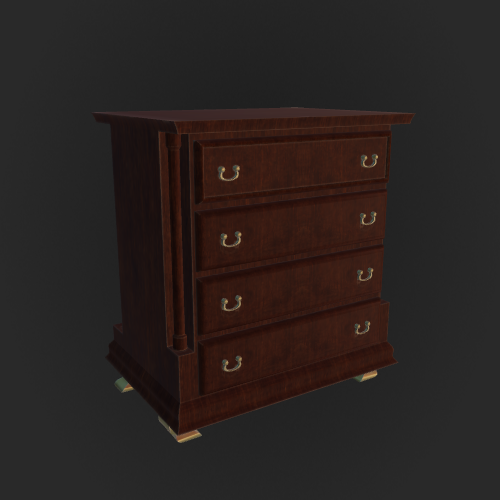
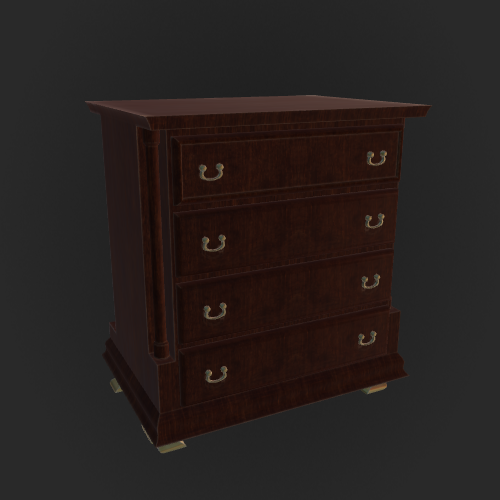
Refactor 3D camera controls and update product model
Replaced `CameraDefaultZPos` and `ViewDefaultRotation` with `cameraDefaultPos` and `controlsDefaultTarget` for improved 3D camera positioning and targeting. Updated `ProductData` model and database schema to reflect these changes, including a new migration.

Refactored `HomeController.cs` to use `productId` instead of `productName` for product identification and added `ThenInclude` for `Materials`. Enhanced `UploadModelPanel.js` with `OrbitControls` for better 3D navigation and introduced asynchronous model loading with error handling.

Updated `site.js` to support passing product IDs to `UploadMode`. Improved maintainability, readability, and user experience across the codebase.

diff --git a/3D-Marketplace/wwwroot/js/UploadModelPanel.js b/3D-Marketplace/wwwroot/js/UploadModelPanel.js
@@ -1,22 +1,21 @@
 import * as THREE from 'three';
 import { GLTFLoader } from 'three/addons/loaders/GLTFLoader.js';
 import { FBXLoader } from 'three/addons/loaders/FBXLoader.js';
-import { MaterialInfo } from '/MyModels.js';
+import { MaterialInfo } from './MyModels.js';
+import { OrbitControls } from 'three/addons/controls/OrbitControls.js';
 
 const scene = new THREE.Scene(); // Set up the scene
 
 const canvas_container = document.getElementById('canvas-container');
 
-let cameraDefaultZPos = 10;
-const viewDefaultRotation = new THREE.Vector2(0, 0); // x for the camera and Y for the model
+const cameraDefaultPos = new THREE.Vector3(0, 0, 10);     // <-- this new
+const controlsDefaultTarget = new THREE.Vector3(0, 0, 0); // <-- this new
 
 const camera = new THREE.PerspectiveCamera(45, canvas_container.clientWidth / canvas_container.clientHeight, 0.1, 100);
-camera.position.set(0, 0, cameraDefaultZPos);
+camera.position.copy(cameraDefaultPos);
 camera.lookAt(0, 0, 0);
 
-const cameraParent = new THREE.Object3D();
-cameraParent.add(camera);
-scene.add(cameraParent);
+scene.add(camera);
 
 const render = new THREE.WebGLRenderer({ antialias: true, alpha: true, preserveDrawingBuffer: true });
 
@@ -25,7 +24,8 @@ render.outputColorSpace = THREE.SRGBColorSpace;
 render.setSize(canvas_container.clientWidth, canvas_container.clientHeight);
 canvas_container.appendChild(render.domElement);
 
-
+const controls = new OrbitControls(camera, render.domElement);
+controls.enablePan = false;
 
 const fpxLoader = new FBXLoader();
 const gltfLoader = new GLTFLoader();
@@ -524,8 +524,12 @@ document.getElementById('canvas-Save').addEventListener('click', async () => {
     // Append Scalars & Form Inputs
     productFormData.append("productId", productId);
     productFormData.append("isPublished", isPublished);
-    productFormData.append("ViewDefaultRotation", JSON.stringify({ x: viewDefaultRotation.x, y: viewDefaultRotation.y }));
-    productFormData.append("CameraDefaultZPos", cameraDefaultZPos);
+
+    productFormData.append("controlsDefaultTarget",
+        JSON.stringify({ x: controlsDefaultTarget.x, y: controlsDefaultTarget.y, z: controlsDefaultTarget.z }));
+    productFormData.append("cameraDefaultPos",
+        JSON.stringify({ x: cameraDefaultPos.x, y: cameraDefaultPos.y, z: cameraDefaultPos.z }));
+
     productFormData.append("HdriBrightness", sceneBrightness);
 
     productFormData.append("ProductName", productNameInput.value);
@@ -611,9 +615,10 @@ function capturedThumbnail() {
         thumbnailImage.classList.add('vertical-Open');
         thumbnailImage.style.display = "flex";
 
-        cameraDefaultZPos = camera.position.z;
-        viewDefaultRotation.x = cameraParent.rotation.x;
-        viewDefaultRotation.y = model.rotation.z;
+
+        // --- FIX HERE: Save full Position & Target ---
+        cameraDefaultPos.copy(camera.position);
+        controlsDefaultTarget.copy(controls.target);
 
         thumbnaiTimerId = setTimeout(() => {
             thumbnailImage.classList.remove('vertical-Open');
@@ -648,6 +653,7 @@ function animate(timestamp) {
 
     render.render(scene, camera);
 
+    controls.update();
 }
 
 
@@ -660,29 +666,6 @@ window.addEventListener('resize', () => {
     render.setPixelRatio(Math.min(window.devicePixelRatio, 2));
 })
 
-canvas_container.addEventListener('wheel', (e) => {
-    camera.position.z += e.deltaY * Timer.getDelta();
-    if (camera.position.z < 2) camera.position.z = 1;
-});
-
-canvas_container.addEventListener('mousemove', (e) => {
-    if (e.buttons === 2) { // if right click
-        if (!model) return;
-
-        canvas_container.style.cursor = "url('/resources/cursorRotate.svg'), auto"
-        model.rotation.z += e.movementX * Timer.getDelta();
-        cameraParent.rotation.x += e.movementY * Timer.getDelta() * -1;
-    }
-});
-
-window.addEventListener('mouseup', () => {
-    canvas_container.style.cursor = "default";
-});
-
-render.domElement.addEventListener('contextmenu', (e) => {
-    e.preventDefault();
-});
-
 document.getElementById("canvas-resetViewButton").addEventListener('click', () => {
     resetView();
 });
@@ -690,13 +673,14 @@ document.getElementById("canvas-resetViewButton").addEventListener('click', () =
 function resetView() {
     if (!model) return;
 
-    cameraParent.rotation.x = viewDefaultRotation.x;
-    camera.position.z = cameraDefaultZPos;
-    model.rotation.z = viewDefaultRotation.y;
+    camera.position.copy(cameraDefaultPos);
+    controls.target.copy(controlsDefaultTarget);
+
+    controls.update();
 }
 
 // this should have all the function and ui data manipulation that need to run when the pag load
-function start() {
+async function start() {
     if (productId <= 0 || !product) {
         setDefault_HDMI();
         setDefault_Background();
@@ -736,31 +720,61 @@ function start() {
         if (product.HDRI) applyHDMITexture(product.HDRI);
         if (product.Background) applyBackground(product.Background);
 
-        const rotationObj = JSON.parse(product.ViewDefaultRotation);
-        viewDefaultRotation.x = rotationObj.x;
-        viewDefaultRotation.y = rotationObj.y;
+        let data_cameraDefaultPos = null;
+        let data_controlsDefaultTarget = null;
+        for (var i = 0; i < 2; i++) { // i need to duble parse it because it duble stringified in the database
+            try { data_cameraDefaultPos = JSON.parse(product.cameraDefaultPos); } catch {}
+            try { data_controlsDefaultTarget = JSON.parse(product.controlsDefaultTarget); } catch {}
+        }
 
-        cameraDefaultZPos = product.CameraDefaultZPos;
+        try {
+            cameraDefaultPos.set(data_cameraDefaultPos.x, data_cameraDefaultPos.y, data_cameraDefaultPos.z);
+            controlsDefaultTarget.set(data_controlsDefaultTarget.x, data_controlsDefaultTarget.y, data_controlsDefaultTarget.z);
+        } catch {
+            cameraDefaultPos.set(0, 0, 10);
+            controlsDefaultTarget.set(0, 0, 0);
+        }
 
-        // apply project setting
         productName.value = product.Name;
         productPriceInput.value = product.Price;
         StockInput.value = product.Stock;
         DescriptionInput.value = product.Description;
 
+
         _3dModel = product._3dModel;
-        const modelPath = product._3dModel;
-        if (modelPath && modelPath.endsWith('.fbx')) {
-            const loader = new FBXLoader();
-            loader.load(modelPath, (fbx) => {
-                setupLoadedModel(fbx);
-            });
-        } else if (modelPath) {
-            // GLTF/GLB loader logic goes here
+        const modelPath = _3dModel;
+        if (modelPath) {
+            try {
+                const loadobject = await loadModelAsync(modelPath);
+                if (loadobject) {
+                    setupLoadedModel(loadobject);
+                    resetView();
+                }
+            } catch (error) {
+                showWarningMessage("oppps something went wrong while loading the model, please try again later");
+            }
         }
     }
 
     updateCanvasUI();
     animate();
+    function loadModelAsync(modelPath) {
+        return new Promise((resolve, reject) => {
+            if (!modelPath) return resolve(null);
+
+            if (modelPath.endsWith('.fbx')) {
+                const loader = new FBXLoader();
+                loader.load(modelPath,(fbx) => resolve(fbx),undefined,(error) => reject(error));
+            } else {
+                const loader = new GLTFLoader();
+                loader.load(
+                    modelPath,
+                    (gltf) => resolve(gltf.scene),
+                    undefined,
+                    (error) => reject(error)
+                );
+            }
+        });
+    }
 }
 start();

diff --git a/3D-Marketplace/wwwroot/js/site.js b/3D-Marketplace/wwwroot/js/site.js
@@ -64,7 +64,7 @@ const tabContainer = document.getElementById('tabElementContainer');
 /**
  * @param {'EditProfile' | 'UploadMode' | 'StoreItems'} tabName
  */
-async function switchToTab(tabName) {
+async function switchToTab(tabName,extraInfo) {
 
     // check if the user is sign in
     const checkResponse = await fetch('/Home/IsUserSignIn', { method: 'GET' });
@@ -83,7 +83,8 @@ async function switchToTab(tabName) {
             break;
 
         case 'UploadMode':
-            response = await fetch('/Home/LoadTab_UploadMode', { method: 'POST' });
+            if (!extraInfo) extraInfo = -1;
+            response = await fetch(`/Home/LoadTab_UploadMode?productId=${extraInfo} `, { method: 'POST' });
             break;
         case 'StoreItems':
             response = await fetch('/Home/LoadTab_StoreItems', { method: 'POST' });

diff --git a/3D-Marketplace/wwwroot/js/StoreItems.js b/3D-Marketplace/wwwroot/js/StoreItems.js
@@ -115,8 +115,10 @@ import { MaterialInfo, SceneInfo } from './MyModels.js';
 
             if (userName === product.seller.userName) {
                 editBtn.style.display = 'block';
+                editBtn.onclick = () => { switchToTab('UploadMode', product.id) };
             } else {
                 editBtn.style.display = 'none';
+                editBtn.onclick = () => { };
             }
 
             // 3. Load 3D scene

diff --git a/3D-Marketplace/Controllers/HomeController.cs b/3D-Marketplace/Controllers/HomeController.cs
@@ -20,7 +20,6 @@ namespace _3D_Marketplace.Controllers {
             if (user != null) {
                 ViewData["Name"] = user.Name;
                 ViewData["ProfilePic"] = user.ProfilePicture;
-                ViewData["UserName"] = user.UserName;
             }
 
             return View(_context.products.ToArray());
@@ -37,18 +36,21 @@ namespace _3D_Marketplace.Controllers {
         }
         public IActionResult LoadTab_StoreItems() {
             string? username = Request.Cookies["RememberMeUser"];
+            ViewData["UserName"] = username;
             return PartialView("StoreItems");
         }
         public IActionResult LoadTab_EditProfile() {
             string? username = Request.Cookies["RememberMeUser"];
             return PartialView("EditProfile", model: _context.Users.FirstOrDefault(u => u.UserName == username));
         }
-        public IActionResult LoadTab_UploadMode(string productName = "") {
+
+        [HttpPost]
+        public IActionResult LoadTab_UploadMode(int productId = -1) {
             ProductData? product = null;
-            if (!string.IsNullOrEmpty(productName)) {
+            if (productId >= 0) {
                 var user = GetUserViaCookies();
                 if (user != null)
-                    product = user.products.FirstOrDefault(p => p.Name == productName);
+                    product = user.products.FirstOrDefault(p => p.Id == productId);
             }
 
             return PartialView("UploadModelPanel",model: product);
@@ -64,8 +66,8 @@ namespace _3D_Marketplace.Controllers {
         public class ProductUploadDto {
             public int ProductId { get; set; }
             public bool IsPublished { get; set; }
-            public string ViewDefaultRotation { get; set; } = "{\"x\":0,\"y\":0}";
-            public float CameraDefaultZPos { get; set; }
+            public string controlsDefaultTarget { get; set; } = "{\"x\":0,\"y\":0,\"z\":0}";
+            public string cameraDefaultPos { get; set; } = "{\"x\":0,\"y\":0,\"z\":10}";
 
             // Files vs Paths
             public IFormFile? ModelFile { get; set; }
@@ -112,8 +114,8 @@ namespace _3D_Marketplace.Controllers {
                 Product.Stock = dto.Stock;
                 Product.Description = dto.Description;
                 Product.isPublished = dto.IsPublished;
-                Product.CameraDefaultZPos = dto.CameraDefaultZPos;
-                Product.ViewDefaultRotation = dto.ViewDefaultRotation;
+                Product.cameraDefaultPos = dto.cameraDefaultPos;
+                Product.controlsDefaultTarget = dto.controlsDefaultTarget;
                 Product.HDRI_Brightness = dto.HdriBrightness;
            
                 if (!string.IsNullOrEmpty(thumbnailPath)) Product.Thumbnail = thumbnailPath;
@@ -404,7 +406,7 @@ namespace _3D_Marketplace.Controllers {
         private UserData? GetUserViaCookies() {
             if (Request.Cookies.ContainsKey("RememberMeUser")) {
                 string username = Request.Cookies["RememberMeUser"];
-                return  _context.Users.Include( u => u.products ).FirstOrDefault(u => u.UserName == username);
+                return  _context.Users.Include( u => u.products ).ThenInclude(p => p.Materials).FirstOrDefault(u => u.UserName == username);
             }
 
             return null;

diff --git a/3D-Marketplace/Migrations/20260804012247_ChangingTheCameraDefaultValues.cs b/3D-Marketplace/Migrations/20260804012247_ChangingTheCameraDefaultValues.cs
@@ -1,0 +1,50 @@
+using Microsoft.EntityFrameworkCore.Migrations;
+
+#nullable disable
+
+namespace _3D_Marketplace.Migrations
+{
+    /// <inheritdoc />
+    public partial class ChangingTheCameraDefaultValues : Migration
+    {
+        /// <inheritdoc />
+        protected override void Up(MigrationBuilder migrationBuilder)
+        {
+            migrationBuilder.DropColumn(
+                name: "CameraDefaultZPos",
+                table: "products");
+
+            migrationBuilder.RenameColumn(
+                name: "ViewDefaultRotation",
+                table: "products",
+                newName: "controlsDefaultTarget");
+
+            migrationBuilder.AddColumn<string>(
+                name: "cameraDefaultPos",
+                table: "products",
+                type: "varchar(100)",
+                nullable: false,
+                defaultValue: "");
+        }
+
+        /// <inheritdoc />
+        protected override void Down(MigrationBuilder migrationBuilder)
+        {
+            migrationBuilder.DropColumn(
+                name: "cameraDefaultPos",
+                table: "products");
+
+            migrationBuilder.RenameColumn(
+                name: "controlsDefaultTarget",
+                table: "products",
+                newName: "ViewDefaultRotation");
+
+            migrationBuilder.AddColumn<float>(
+                name: "CameraDefaultZPos",
+                table: "products",
+                type: "real",
+                nullable: false,
+                defaultValue: 0f);
+        }
+    }
+}

diff --git a/3D-Marketplace/Migrations/20260804012247_ChangingTheCameraDefaultValues.Designer.cs b/3D-Marketplace/Migrations/20260804012247_ChangingTheCameraDefaultValues.Designer.cs
@@ -2,6 +2,7 @@
 using Microsoft.EntityFrameworkCore;
 using Microsoft.EntityFrameworkCore.Infrastructure;
 using Microsoft.EntityFrameworkCore.Metadata;
+using Microsoft.EntityFrameworkCore.Migrations;
 using Microsoft.EntityFrameworkCore.Storage.ValueConversion;
 using _3D_Marketplace.Models;
 
@@ -10,9 +11,11 @@ using _3D_Marketplace.Models;
 namespace _3D_Marketplace.Migrations
 {
     [DbContext(typeof(ApplicationDbContext))]
-    partial class ApplicationDbContextModelSnapshot : ModelSnapshot
+    [Migration("20260804012247_ChangingTheCameraDefaultValues")]
+    partial class ChangingTheCameraDefaultValues
     {
-        protected override void BuildModel(ModelBuilder modelBuilder)
+        /// <inheritdoc />
+        protected override void BuildTargetModel(ModelBuilder modelBuilder)
         {
 #pragma warning disable 612, 618
             modelBuilder

diff --git a/3D-Marketplace/Models/ProductData.cs b/3D-Marketplace/Models/ProductData.cs
@@ -9,9 +9,10 @@ namespace _3D_Marketplace.Models {
 
 
         [Column(TypeName = "varchar(100)")]
-        public string ViewDefaultRotation { get; set; }
+        public string controlsDefaultTarget { get; set; } = "{\"x\":0,\"y\":0,\"z\":0}";
 
-        public float CameraDefaultZPos { get; set; }
+        [Column(TypeName = "varchar(100)")]
+        public string cameraDefaultPos { get; set; } = "{\"x\":0,\"y\":0,\"z\":10}";
 
         [Column(TypeName = "varchar(500)")]
         public string Thumbnail { get; set; }
